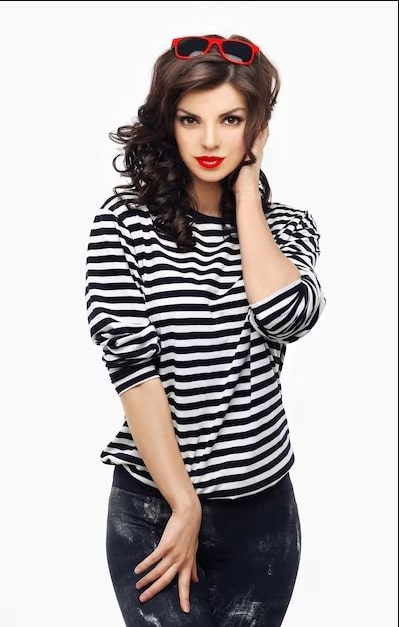
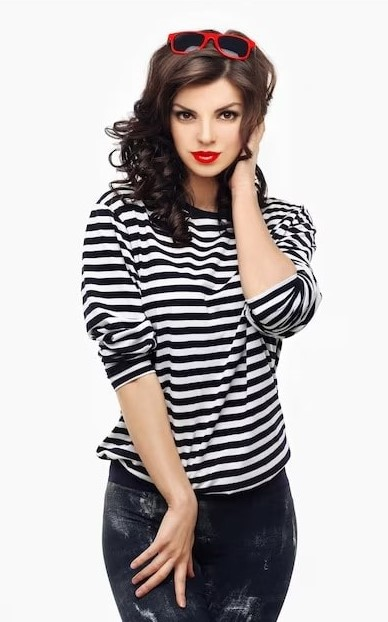
accordion

diff --git a/client/src/components/Product.jsx b/client/src/components/Product.jsx
@@ -4,10 +4,16 @@ import { useDispatch } from 'react-redux'
 import { addToCart, setCartDrawerIsOpen } from '../redux/actions'
 import SizeButton from './SizeButton'
 import products from '../assets/data/products'
+import { ReactComponent as InfoIcon } from '../assets/svg/info.svg'
+import { ReactComponent as ShirtIcon } from '../assets/svg/shirt.svg'
+import { ReactComponent as TruckIcon } from '../assets/svg/truck.svg'
+
+import Accordion from './Accordion'
 
 const Product = () => {
   const [product, setProduct] = useState(null)
   const [selectedSize, setSelectedSize] = useState(null)
+
   const dispatch = useDispatch()
 
   const { product_name } = useParams()
@@ -75,6 +81,53 @@ const Product = () => {
               <button className='btn-dark' onClick={handleAddToCart}>
                 {product.isSoldOut ? 'Email me when back in stock' : 'Add to Cart'}
               </button>
+              <Accordion title='description & sizing' icon={InfoIcon}>
+                <h4>{product.name}</h4>
+                <p className='description'>
+                  Lorem ipsum dolor sit amet consectetur adipisicing elit. Reiciendis quo magnam dicta delectus deserunt
+                  esse debitis corporis distinctio laboriosam ea, error ullam sit sunt optio eius nobis. Perferendis,
+                  voluptatum illum!
+                </p>
+              </Accordion>
+              <Accordion title='materials & care' icon={ShirtIcon}>
+                <ul>
+                  <li>
+                    <span>- </span> <p>95% Cotton, 5% Elastane</p>
+                  </li>
+                  <li>
+                    <span>- </span> <p>Wash inside out at 30 degrees</p>
+                  </li>
+                  <li>
+                    <span>- </span> <p>Iron inside out with a cool iron</p>
+                  </li>
+                  <li>
+                    <span>- </span> <p>Do not tumble dry</p>
+                  </li>
+                  <li>
+                    <span>- </span> <p>Do not Bleach</p>
+                  </li>
+                </ul>
+              </Accordion>
+
+              <Accordion title='deliveries & returns' icon={TruckIcon}>
+                <ul>
+                  <li>
+                    <span>- </span> <p>All orders sent via DHL Express (2-4 Working Days) tracked services</p>
+                  </li>
+                  <li>
+                    <span>- </span> <p>Orders over $199 - Free Shipping</p>
+                  </li>
+                  <li>
+                    <span>- </span> <p>Orders under $199 - $9.99 USD</p>
+                  </li>
+                  <li>
+                    <span>- </span> <p>Returns are available - see Returns Policy</p>
+                  </li>
+                  <li>
+                    <span>- </span> <p>No additional import duty or tax fees applicable, pay once only.</p>
+                  </li>
+                </ul>
+              </Accordion>
             </div>
           </>
         )}

diff --git a/client/src/sass/pages/_product.scss b/client/src/sass/pages/_product.scss
@@ -4,11 +4,11 @@
   padding: 12.5rem 0 10rem 0;
 
   .container {
+    display: flex;
+    justify-content: center;
+    gap: 4rem;
     max-width: 100rem;
     width: 100%;
-    display: flex;
-    gap: 4rem;
-    justify-content: center;
 
     @include media('<desktop') {
       justify-content: flex-start;
@@ -20,11 +20,12 @@
 
     img {
       object-fit: cover;
+      height: 50rem;
       width: 65%;
 
       @include media('<tablet') {
-        width: 100%;
         align-self: center;
+        width: 100%;
       }
     }
 
@@ -41,10 +42,10 @@
         }
 
         &.color {
+          margin-bottom: 1rem;
           font-size: $font-small;
           font-weight: 600;
           color: rgba($dark-gray, 0.7);
-          margin-bottom: 1rem;
 
           span {
             font-weight: 600;
@@ -54,9 +55,9 @@
         }
 
         &.size {
+          margin-bottom: 1rem;
           font-size: $font-small;
           color: rgba($dark-gray, 0.7);
-          margin-bottom: 1rem;
         }
       }
 
@@ -68,8 +69,21 @@
         margin-bottom: 2rem;
       }
 
-      button {
+      button.btn-dark {
+        margin-bottom: 2rem;
         width: 100%;
+      }
+
+      .accordion {
+        ul {
+          li {
+            line-height: 1.65rem;
+            opacity: 0.9;
+            display: flex;
+            gap: 10px;
+            align-items: flex-start;
+          }
+        }
       }
     }
   }

diff --git a/client/src/sass/components/_accordion.scss b/client/src/sass/components/_accordion.scss
@@ -1,0 +1,55 @@
+.accordion {
+  border-top: 1px solid rgba($dark-gray, 0.2);
+  cursor: pointer;
+
+  .header {
+    display: flex;
+    align-items: center;
+    padding: 1rem;
+
+    svg {
+      height: 2rem;
+      width: 2rem;
+      opacity: 0.5;
+
+      &:nth-child(3) {
+        margin-left: auto;
+        transition: transform 0.3s ease-in-out;
+
+        &.is-open {
+          transform: scaleY(-1);
+        }
+      }
+    }
+
+    p.title {
+      margin-left: 1rem;
+      font-weight: 600;
+      text-transform: capitalize;
+      opacity: 0.9;
+    }
+  }
+
+  .details {
+    padding: 0 1rem;
+    overflow: hidden;
+    max-height: 0rem;
+    transition: all 0.3s $cubic-bezier;
+
+    &.is-open {
+      padding: 2rem 1rem;
+      height: fit-content;
+      max-height: 30rem;
+    }
+
+    h4 {
+      margin-bottom: 1rem;
+      text-transform: capitalize;
+    }
+
+    p {
+      line-height: 1.65rem;
+      opacity: 0.9;
+    }
+  }
+}

diff --git a/client/src/components/Accordion.jsx b/client/src/components/Accordion.jsx
@@ -1,0 +1,22 @@
+import { useState } from 'react'
+
+import { ReactComponent as ChevDownIcon } from '../assets/svg/chev-down.svg'
+
+const Accordion = ({ children, title, icon: Icon }) => {
+  const [isDetailsOpen, toggleDetails] = useState(false)
+
+  const handleToggleDetails = () => toggleDetails(!isDetailsOpen)
+
+  return (
+    <div className='accordion'>
+      <div className='header' onClick={handleToggleDetails}>
+        {Icon && <Icon />}
+        <p className='title'>{title}</p>
+        <ChevDownIcon className={`${isDetailsOpen ? 'is-open' : ''}`} />
+      </div>
+      <div className={`details${isDetailsOpen ? ' is-open' : ''}`}>{children}</div>
+    </div>
+  )
+}
+
+export default Accordion

diff --git a/client/src/sass/main.scss b/client/src/sass/main.scss
@@ -4,6 +4,7 @@
 @import './base/base';
 
 // components
+@import './components/accordion';
 @import './components/cart-drawer';
 @import './components/custom-input-number';
 @import './components/footer';
